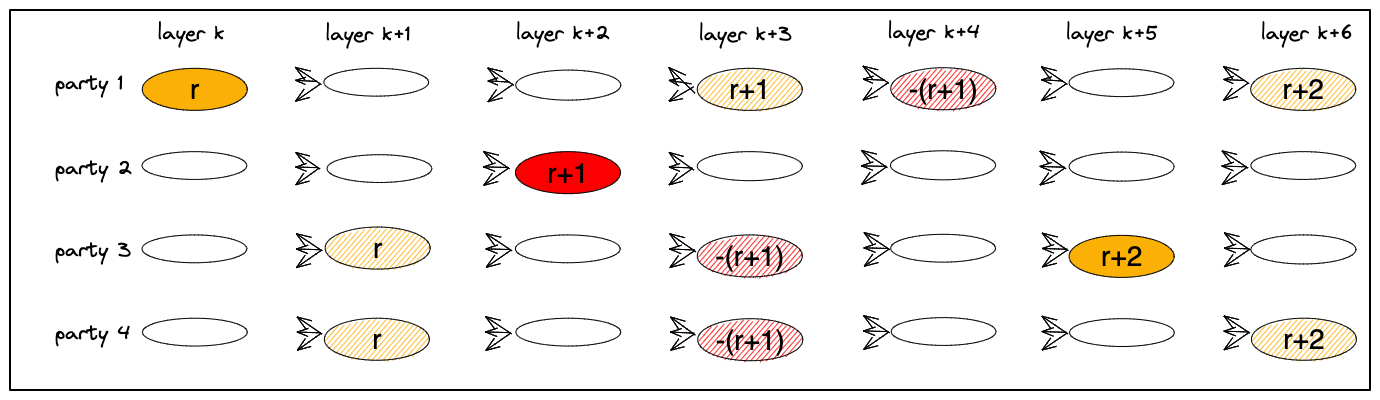
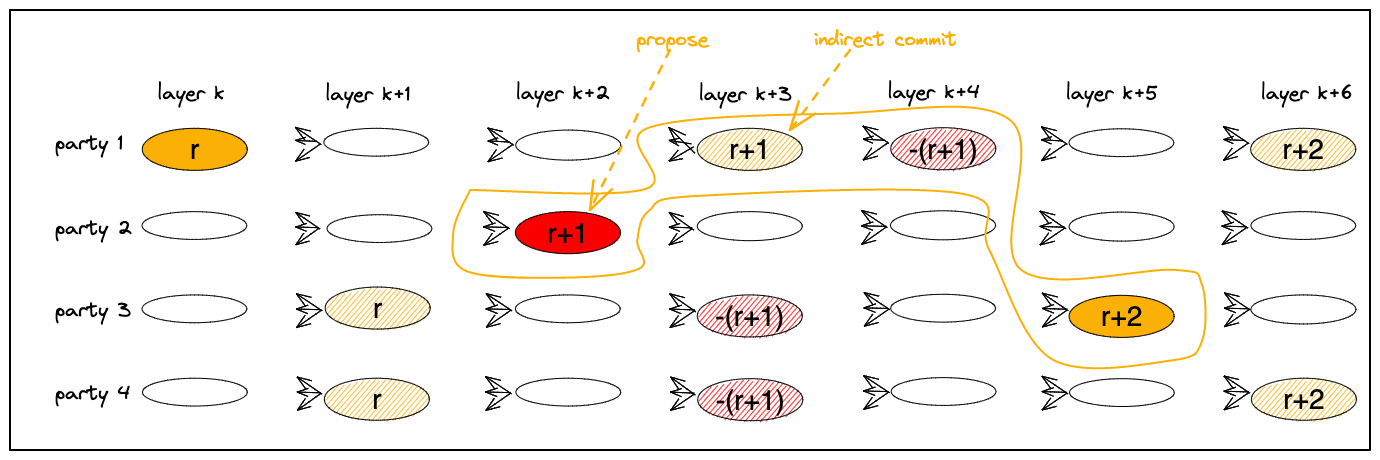
working on DAG draft

diff --git a/_drafts/DAG-BFT.md b/_drafts/DAG-BFT.md
@@ -1,4 +1,4 @@
-  <img src="/images/FIN/cover.png" width="750"  class="center"  />
+  <img src="/images/FIN/propose-commit.png" width="750"  class="center"  />
 
 ## Away with Monolithic BFT Consensus; Enter DAG-based BFT Consensus
 
